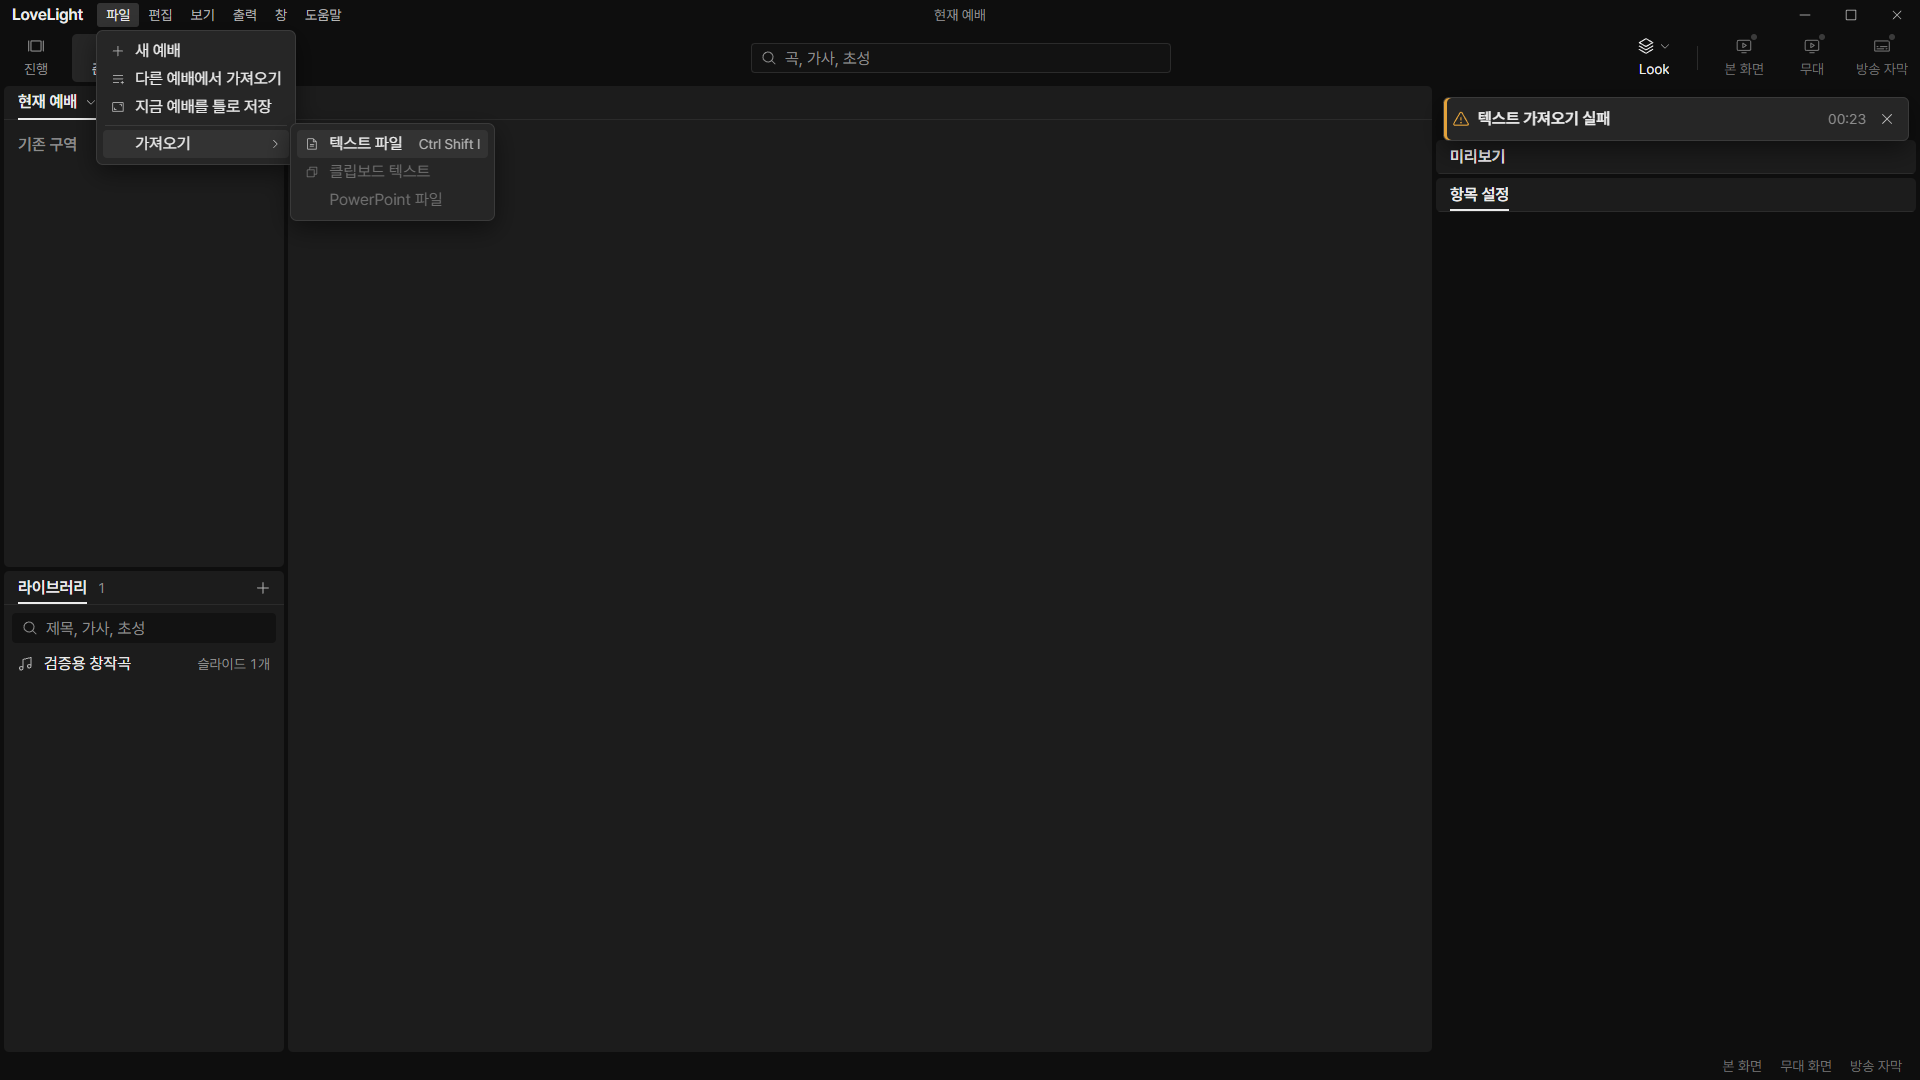
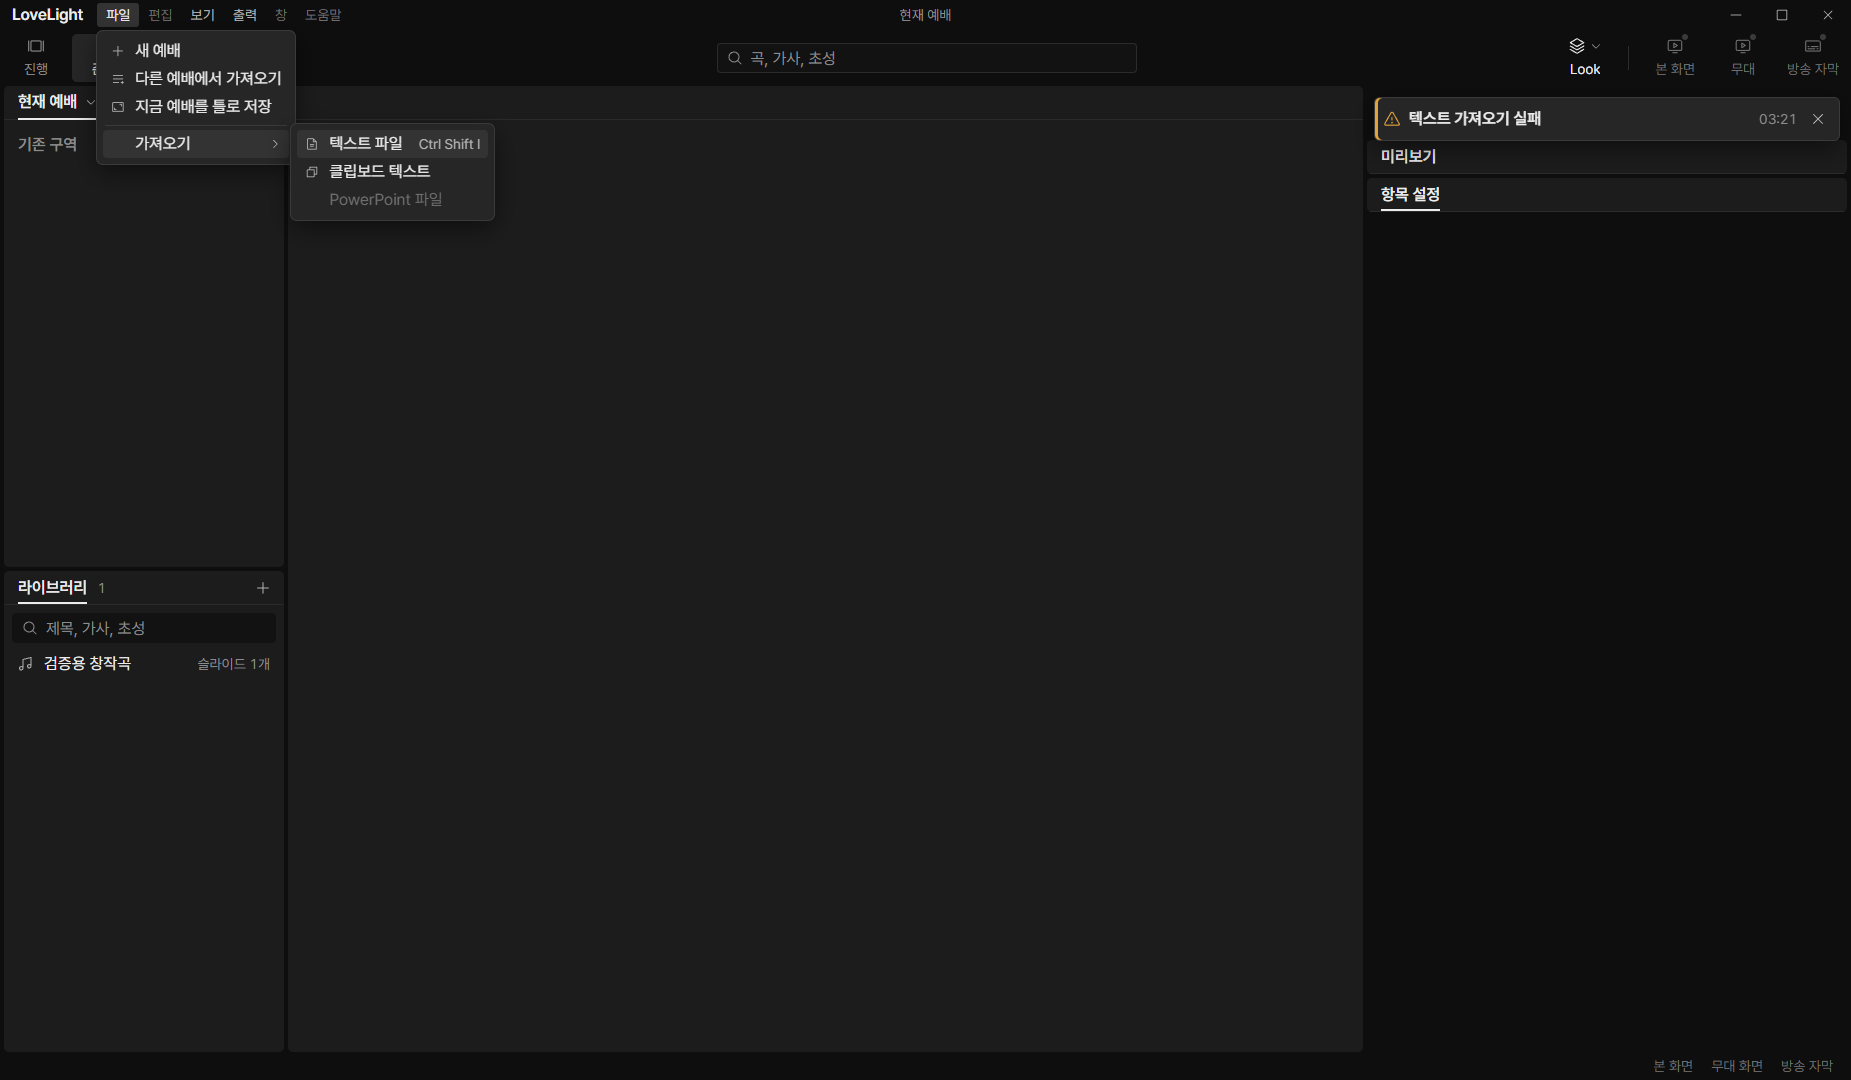
test(shell): repair shortcut checks on current main

diff --git a/src/renderer/src/shell/FileMenu.test.tsx b/src/renderer/src/shell/FileMenu.test.tsx
@@ -151,7 +151,13 @@ describe('the 파일 menu', () => {
       );
       await userEvent.click(screen.getByRole('menuitem', {name: '파일'}));
       await userEvent.click(screen.getByRole('menuitem', {name: '가져오기'}));
-      await userEvent.click(screen.getByRole('menuitem', {name}));
+      const entry = screen.getByRole('menuitem', {
+        name: new RegExp(`^${name}`),
+      });
+      if (source === 'file') {
+        expect(entry.textContent).toContain('Ctrl Shift I');
+      }
+      await userEvent.click(entry);
       expect(onImportText).toHaveBeenCalledExactlyOnceWith(source);
       expect(screen.queryByRole('menu')).toBeNull();
     },
@@ -164,13 +170,15 @@ describe('the 파일 menu', () => {
     await userEvent.click(screen.getByRole('menuitem', {name: '가져오기'}));
     for (const name of ['텍스트 파일', '클립보드 텍스트', 'PowerPoint 파일']) {
       expect(
-        screen.getByRole('menuitem', {name}).getAttribute('aria-disabled'),
+        screen
+          .getByRole('menuitem', {name: new RegExp(`^${name}`)})
+          .getAttribute('aria-disabled'),
       ).toBe('true');
     }
     expect(
       (
         await hoverForTooltip(
-          screen.getByRole('menuitem', {name: '텍스트 파일'}),
+          screen.getByRole('menuitem', {name: /^텍스트 파일/}),
         )
       )?.textContent,
     ).toBe('텍스트 가져오기를 준비 중입니다');

diff --git a/src/renderer/src/prep/import/TextImportFlow.test.tsx b/src/renderer/src/prep/import/TextImportFlow.test.tsx
@@ -37,19 +37,21 @@ describe('text import flow', () => {
     });
     const onDone = vi.fn();
     const onEdit = vi.fn();
-    render(
-      <StrictMode>
-        <TextImportFlow
-          api={api}
-          store={f.store}
-          source="file"
-          onDone={onDone}
-          onEdit={onEdit}
-          onProblem={f.problem}
-        />
-      </StrictMode>,
-    );
-    await screen.findByText('슬라이드 1');
+    await act(async () => {
+      render(
+        <StrictMode>
+          <TextImportFlow
+            api={api}
+            store={f.store}
+            source="file"
+            onDone={onDone}
+            onEdit={onEdit}
+            onProblem={f.problem}
+          />
+        </StrictMode>,
+      );
+    });
+    expect(screen.getByText('슬라이드 1')).toBeTruthy();
     expect(read).toHaveBeenCalledExactlyOnceWith({
       source: 'file',
       encoding: 'auto',

diff --git a/docs/reviews/spec-61.md b/docs/reviews/spec-61.md
@@ -3,7 +3,7 @@
 - Team member: `spec` (Codex)
 - Branch: `fix/spec/search-import-keys`, initially stacked on spec-60
 - Base, range, and exact-head CI: see the request message
-- Review round: 1
+- Review round: 2
 - Task: decided S1 search and file-import defaults from the shortcut audit
 
 ## What changed and why
@@ -19,10 +19,11 @@ precedence and held-key suppression use spec-60's shared handler.
 
 ## Validation
 
-The focused App, ToolbarSearch and MenuBar tests pass, including search from
-each workspace, query selection, one file read after a held import key, and
-existing import preview/edit/save guards. Typecheck, scoped lint, build,
-formatting and final results are recorded with submission.
+All 107 focused tests pass, including ShowPanels, App and PrepMount on the
+rebased main, ToolbarSearch, MenuBar, FileMenu and the import flow. They cover
+search from each workspace, query selection, one file read after a held import
+key, and existing import preview/edit/save guards. Typecheck, scoped lint,
+build, formatting and final results are recorded with submission. CI pending.
 
 ## Checked in the app
 
@@ -33,14 +34,16 @@ on dev port 5193, CDP 9517 and a fresh isolated fixture folder.
 Verified Ctrl F from all workspaces, real library search results and selection
 of the entire query. Repeated preparation/search and settings/search round trips
 20 times after warm-up. Ran Ctrl Shift I twice from 화면 설정 and opened the
-File import submenu to verify its shortcut hint. The native picker is
-intentionally cancelled by main's offscreen guard; accepted-file preview/edit is
-exercised by the integration tests, rather than claiming a native picker was
-displayed. Live layers stayed identical and no renderer exceptions occurred.
+File import submenu to verify its shortcut hint. The native picker is refused by
+main's offscreen guard and the text-import failure warning is shown;
+accepted-file preview/edit is exercised by the integration tests. No native
+picker was displayed. Live layers stayed identical and no renderer exceptions
+occurred.
 
-Elements stayed at 399, DOM nodes at 1444 and listeners at 384. Collected heap
-was 6.64, 6.87 and 6.99 MB, within 0.36 MB over the repeated flow. The driver
-stopped its app/server processes. [Measurements](spec-61/measurements.json).
+Repeated the app check after rebasing. Elements stayed at 401, DOM nodes at 1446
+and listeners at 385. Collected heap was 6,831,020, 6,993,380 and 7,136,036
+bytes, within about 298 KiB over the repeated flow. The driver stopped its
+app/server processes. [Measurements](spec-61/measurements.json).
 
 ![Ctrl F focuses search and selects the query](spec-61/focused-search.png)
 
@@ -50,3 +53,21 @@ stopped its app/server processes. [Measurements](spec-61/measurements.json).
 
 The lead assigned shell/control shortcut alignment to this member. No shared
 contract, native-dialog policy, or F1 through F7 handling changes.
+
+`prep/import/TextImportFlow.test.tsx` now settles its immediate mock read and
+preview in async act. This removes a timed wait from the StrictMode regression;
+import implementation behavior is unchanged.
+
+## Team member's reply
+
+Round 2: rebased onto current local main after the lead reported the failed
+[original-head CI run](https://github.com/0913vision/llpresenter/actions/runs/40349139653).
+The three integration suites named by the lead are included in the rerun.
+Expanded related checks also caught two FileMenu assertions that still expected
+the label without its newly added shortcut hint; they now check the label prefix
+and assert the hint. The StrictMode import preview passed alone but exceeded its
+timed wait in the combined run; explicit async act now settles its immediate
+mock work before checking the preview. No production shortcut code changed in
+this response. Rebuilt and repeated the actual app flow, and corrected the old
+offscreen-picker description from cancellation to a reported refusal. Push is
+followed immediately by the round 2 request with CI pending.
